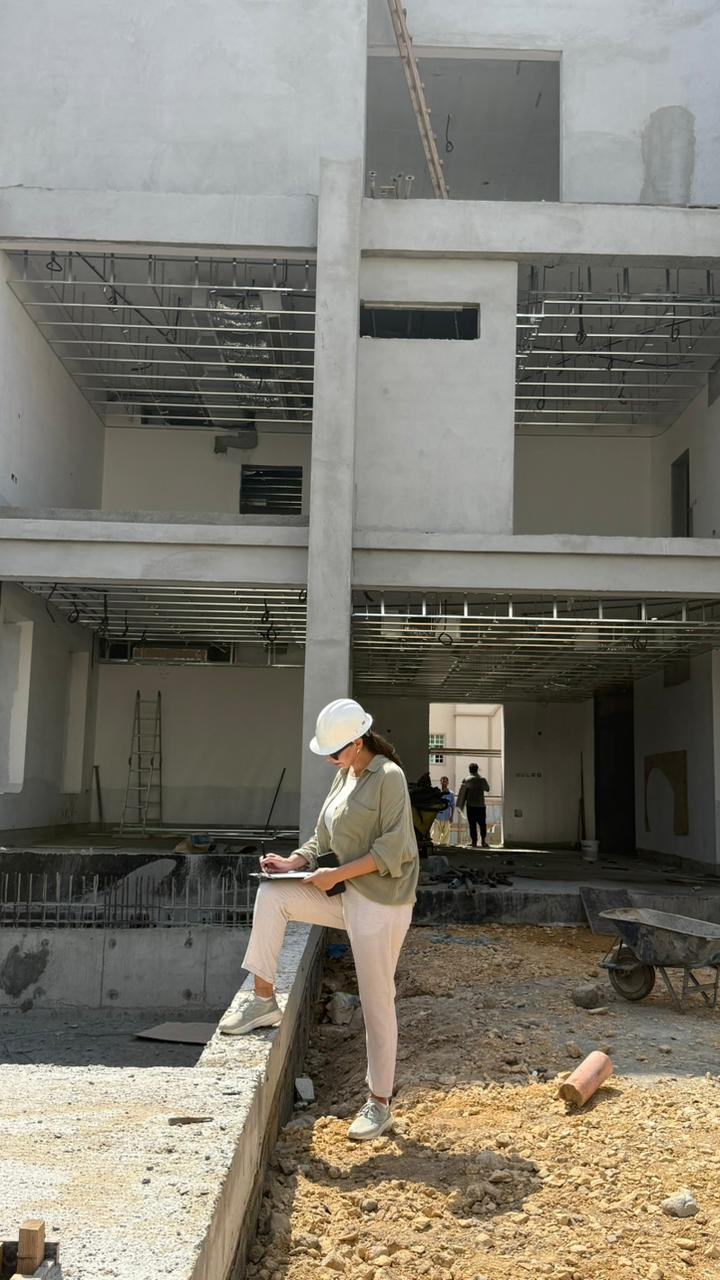
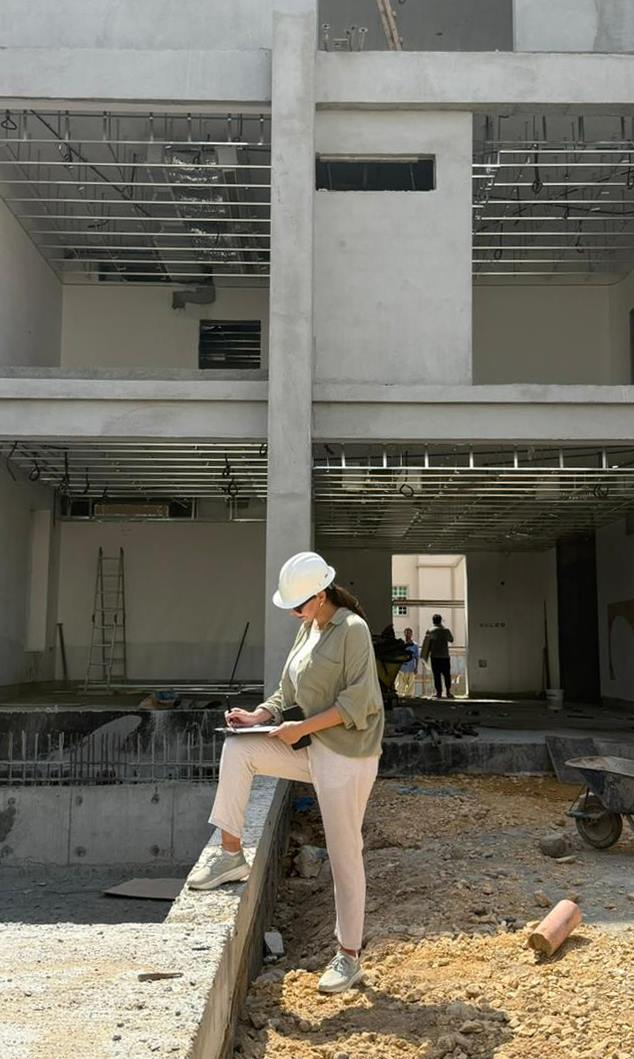
Use photo.jpeg on About page; refresh & compress photo1 (home) and photo

diff --git a/about.html b/about.html
@@ -26,7 +26,7 @@
   <section class="section section--white about-bio">
     <div class="container about-bio__inner">
       <div class="about-bio__photo fade-up">
-        <img src="assets/images/portrait.jpg" alt="Niloufar Zanjani" class="about-bio__img">
+        <img src="assets/images/photo.jpeg" alt="Niloufar Zanjani" class="about-bio__img">
         <div class="about-bio__stats">
           <div class="stat-item"><span class="stat-number">13+</span><span class="stat-label">Years Experience</span></div>
           <div class="stat-item"><span class="stat-number">OSE</span><span class="stat-label">Member</span></div>